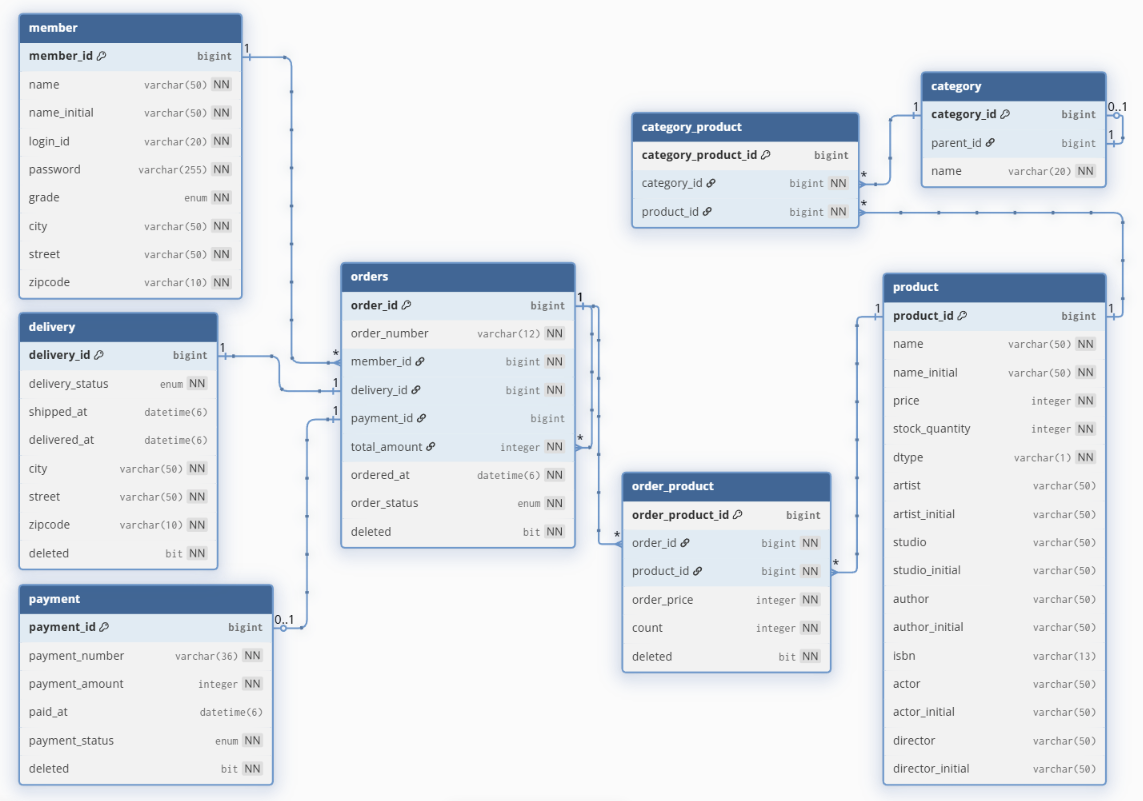
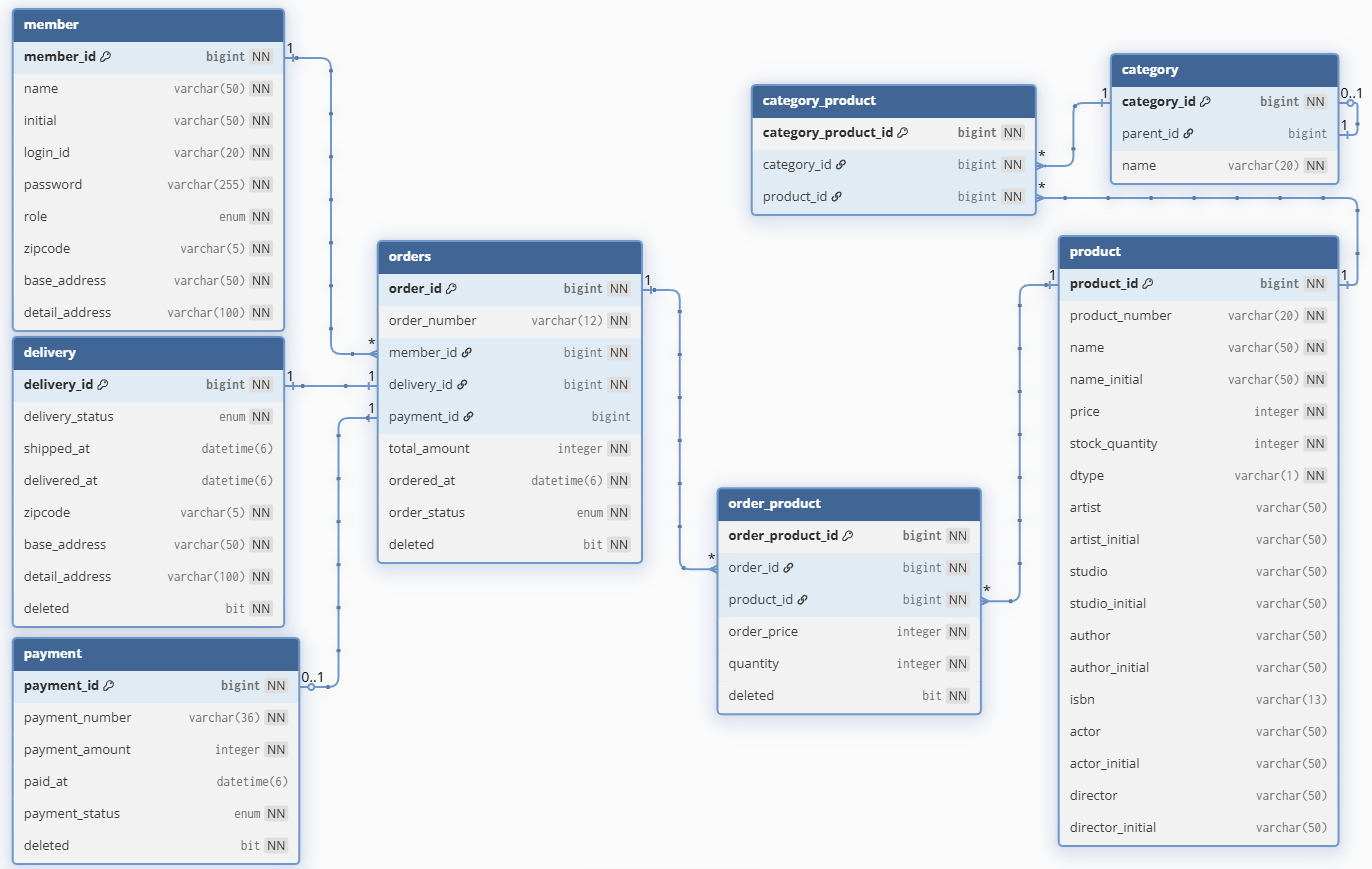
README 파일 및 설계도 수정

Changed region(s): [[0.0, 0.0, 1.0, 0.9988]]

diff --git a/docs/design/api.md b/docs/design/api.md
@@ -1,53 +1,52 @@
 # API 명세
-![api](images/API_명세.PNG)
+![api_01](images/API_명세서_01.PNG)
+![api_02](images/API_명세서_02.PNG)
 - Auth  
   POST /login 로그인  
-  POST /logout 로그아웃  
-  GET /web/login 웹 로그인
-
-
-- Category  
-  GET /categories 카테고리 목록 조회  
-  POST /categories 카테고리 등록  
-  GET /categories/{categoryName} 카테고리 조회  
-  POST /categories/{categoryName} 카테고리 수정  
-  DELETE /categories/{categoryName} 카테고리 삭제  
-  POST /categories/{categoryName}/{productName} 카테고리에 소속된 상품 제거  
-  POST /categories/{categoryName}/products 카테고리에 소속된 상품들 제거
+  POST /logout 로그아웃
 
 
 - Member  
   GET /members 회원 검색  
   POST /members 회원 가입  
-  GET /members/{memberLoginId} 회원 조회  
+  GET /members/{memberLoginId} 회원 상세 조회  
   DELETE /members/{memberLoginId} 회원 삭제  
-  POST /members/{memberLoginId}/password 회원 비밀번호 수정  
-  POST /members/{memberLoginId}/address 회원 주소 수정
+  PATCH /members/{memberLoginId}/address 주소 수정  
+  POST /members/{memberLoginId}/password 비밀번호 수정
+
+
+- Category  
+  GET /categories 카테고리 목록 조회  
+  POST /categories 카테고리 생성  
+  GET /categories/{categoryName} 카테고리 상세 조회  
+  DELETE /categories/{categoryName} 카테고리 삭제  
+  PATCH /categories/{categoryName} 부모 카테고리 변경  
+  DELETE /categories/{categoryName}/{productNumber} 상품과 연결 해제  
+  DELETE /categories/{categoryName}/products 모든 상품과 연결 해제
+
+
+- Product  
+  GET /products 상품 검색  
+  POST /products 상품 생성  
+  GET /products/{productNumber} 상품 상세 조회  
+  DELETE /products/{productNumber} 상품 삭제  
+  PATCH /products/{productNumber} 상품 수정  
+  PATCH /products/{productNumber}/{categoryName} 카테고리완 연결
 
 
 - Order  
   GET /orders 주문 검색  
   POST /orders 주문 생성  
-  GET /orders/{orderNumber} 주문 조회  
-  POST /orders/{orderNumber} 주문 수정  
+  GET /orders/{orderNumber} 주문 상세 조회  
   DELETE /orders/{orderNumber} 주문 삭제  
-  POST /orders/{orderNumber} 주문 취소  
-  POST /orders/{orderNumber}/payments 결제 요청
+  PATCH /orders/{orderNumber} 주문 수정  
+  PATCH /orders/{orderNumber}/cancel 주문 취소  
 
 
 - Payment  
-  GET /api/payments 결제 화면  
-  GET /api/payments/{orderNumber} 주문 정보 전달  
-  POST /api/payments/complete 결제 완료 처리
+  POST /payments/orders/{orderNumber} 결제 요청
+  GET /payments/{orderNumber} 결제 조회 및 결제 진행
 
-
-- Product  
-  GET /products 상품 검색  
-  POST /products 상품 등록  
-  GET /products/{productName} 상품 조회  
-  POST /products/{productName} 상품 수정  
-  DELETE /products/{productName} 상품 삭제  
-  POST /products/{productName}/{categoryName} 카테고리에 등록
 
 ### 변경 이력
 - 주문 수정, 취소 추가  
@@ -84,3 +83,23 @@
 
 - 주문 검색 추가, 회원과 상품 목록 조회를 검색으로 변경, 카테고리로 상품 조회를 상품 검색에 포함  
   검색 조건을 사용하지 않으면 전체 조회로 사용할 수 있고, 검색 조건을 사용하면 세부 조회가 가능하다.
+
+
+- {productName} -> {productNumber} 변경  
+  유니크 키로 변경
+
+
+- Swagger 추가로 인한 /web/login 삭제
+
+
+- /members/{memberLoginId}/address, /categories/{categoryName}, /products/{productNumber}, /products/{productNumber}/{categoryName}, /orders/{orderNumber}, /orders/{orderNumber}/cancel  
+  멱등성을 위해 POST에서 PATCH로 변경
+
+
+- /categories/{categoryName}/{productNumber}, /categories/{categoryName}/products  
+  카테고리 상품이 삭제되므로 POST에서 DELETE로 변경
+
+
+- /payments/orders/{orderNumber}  
+  결제 요청이므로 주문에서 결제로 위치 이동
+

diff --git a/docs/references/README.md b/docs/references/README.md
@@ -18,7 +18,9 @@
   기획 추천, 설계 검증 및 다듬기, 파일 정리 구조 추천, 메서드 이름 추천  
   자바스크립트와 서버간의 비동기 연동 과정에 AI의 도움을 받아 결제 상태의 동기화 문제를 해결  
   토큰을 쿠키에 넣는 것과 인터셉터로 토큰을 검증하는 과정에 AI의 도움을 받아 비로그인, 일반 회원, 관리자 여부 체크 구현  
-  배포 시 주소 불일치 방지를 위한 CORS 등록
+  배포 시 주소 불일치 방지를 위한 CORS 등록  
+  개발 과정에서 처음 사용하는 부분의 정보를 얻고 그 부분을 공부해서 적용  
+  배포 과정에서 보안 강화
 
 
 - [Blog](blog.md)

diff --git a/docs/design/domain.md b/docs/design/domain.md
@@ -54,7 +54,7 @@
   PK가 아닌 주문 번호를 사용하기 위해 추가
 
 
-- 주문, 배송, 주문 상품에서 deleted 추가  
+- 주문, 배송, 주문 상품에서 deleted 추가 //결제에도 추가  
   Soft Delete하기 위해 추가
 
 
@@ -64,3 +64,16 @@
 
 - 카테고리에서 child 필드 이름 children으로 변경
   자식 카테고리는 N이므로 복수형으로 변경
+
+
+- 상품 productNumber 추가  
+  유니크 키 추가
+
+
+- 주문 상품에서 수량을 count에서 quantity로 변경  
+  개수 느낌에서 수량 느낌으로 변경
+
+
+- 회원 Grade를 Role로 변경  
+  등급에 더 어울려서 변경
+

diff --git a/docs/design/architecture.md b/docs/design/architecture.md
@@ -1,5 +1,6 @@
 # 시스템 아키텍처
 ![architecture](images/시스템_아키텍처.PNG)
+
 코드 작성 후, Git 저장소에 커밋한다.  
 GitHub로 push되면 GitHub Actions 트리거가 작동해서 애플리케이션을 빌드 및 테스트한다.  
 Docker 이미지를 빌드해서 Docker Hub에 push한다.  

diff --git a/docs/design/erd.md b/docs/design/erd.md
@@ -31,3 +31,16 @@
 
 
 - 회원, 상품에서 initial 추가
+
+
+- 상품에서 상품 번호 product_number 추가
+
+
+- 회원 등급을 grade -> role로 변경
+
+
+- 주문 상품에서 count -> quantity로 변경
+
+
+- 주소를 city, street, zipcode -> zipcode, base_address, detail_address로 변경
+
